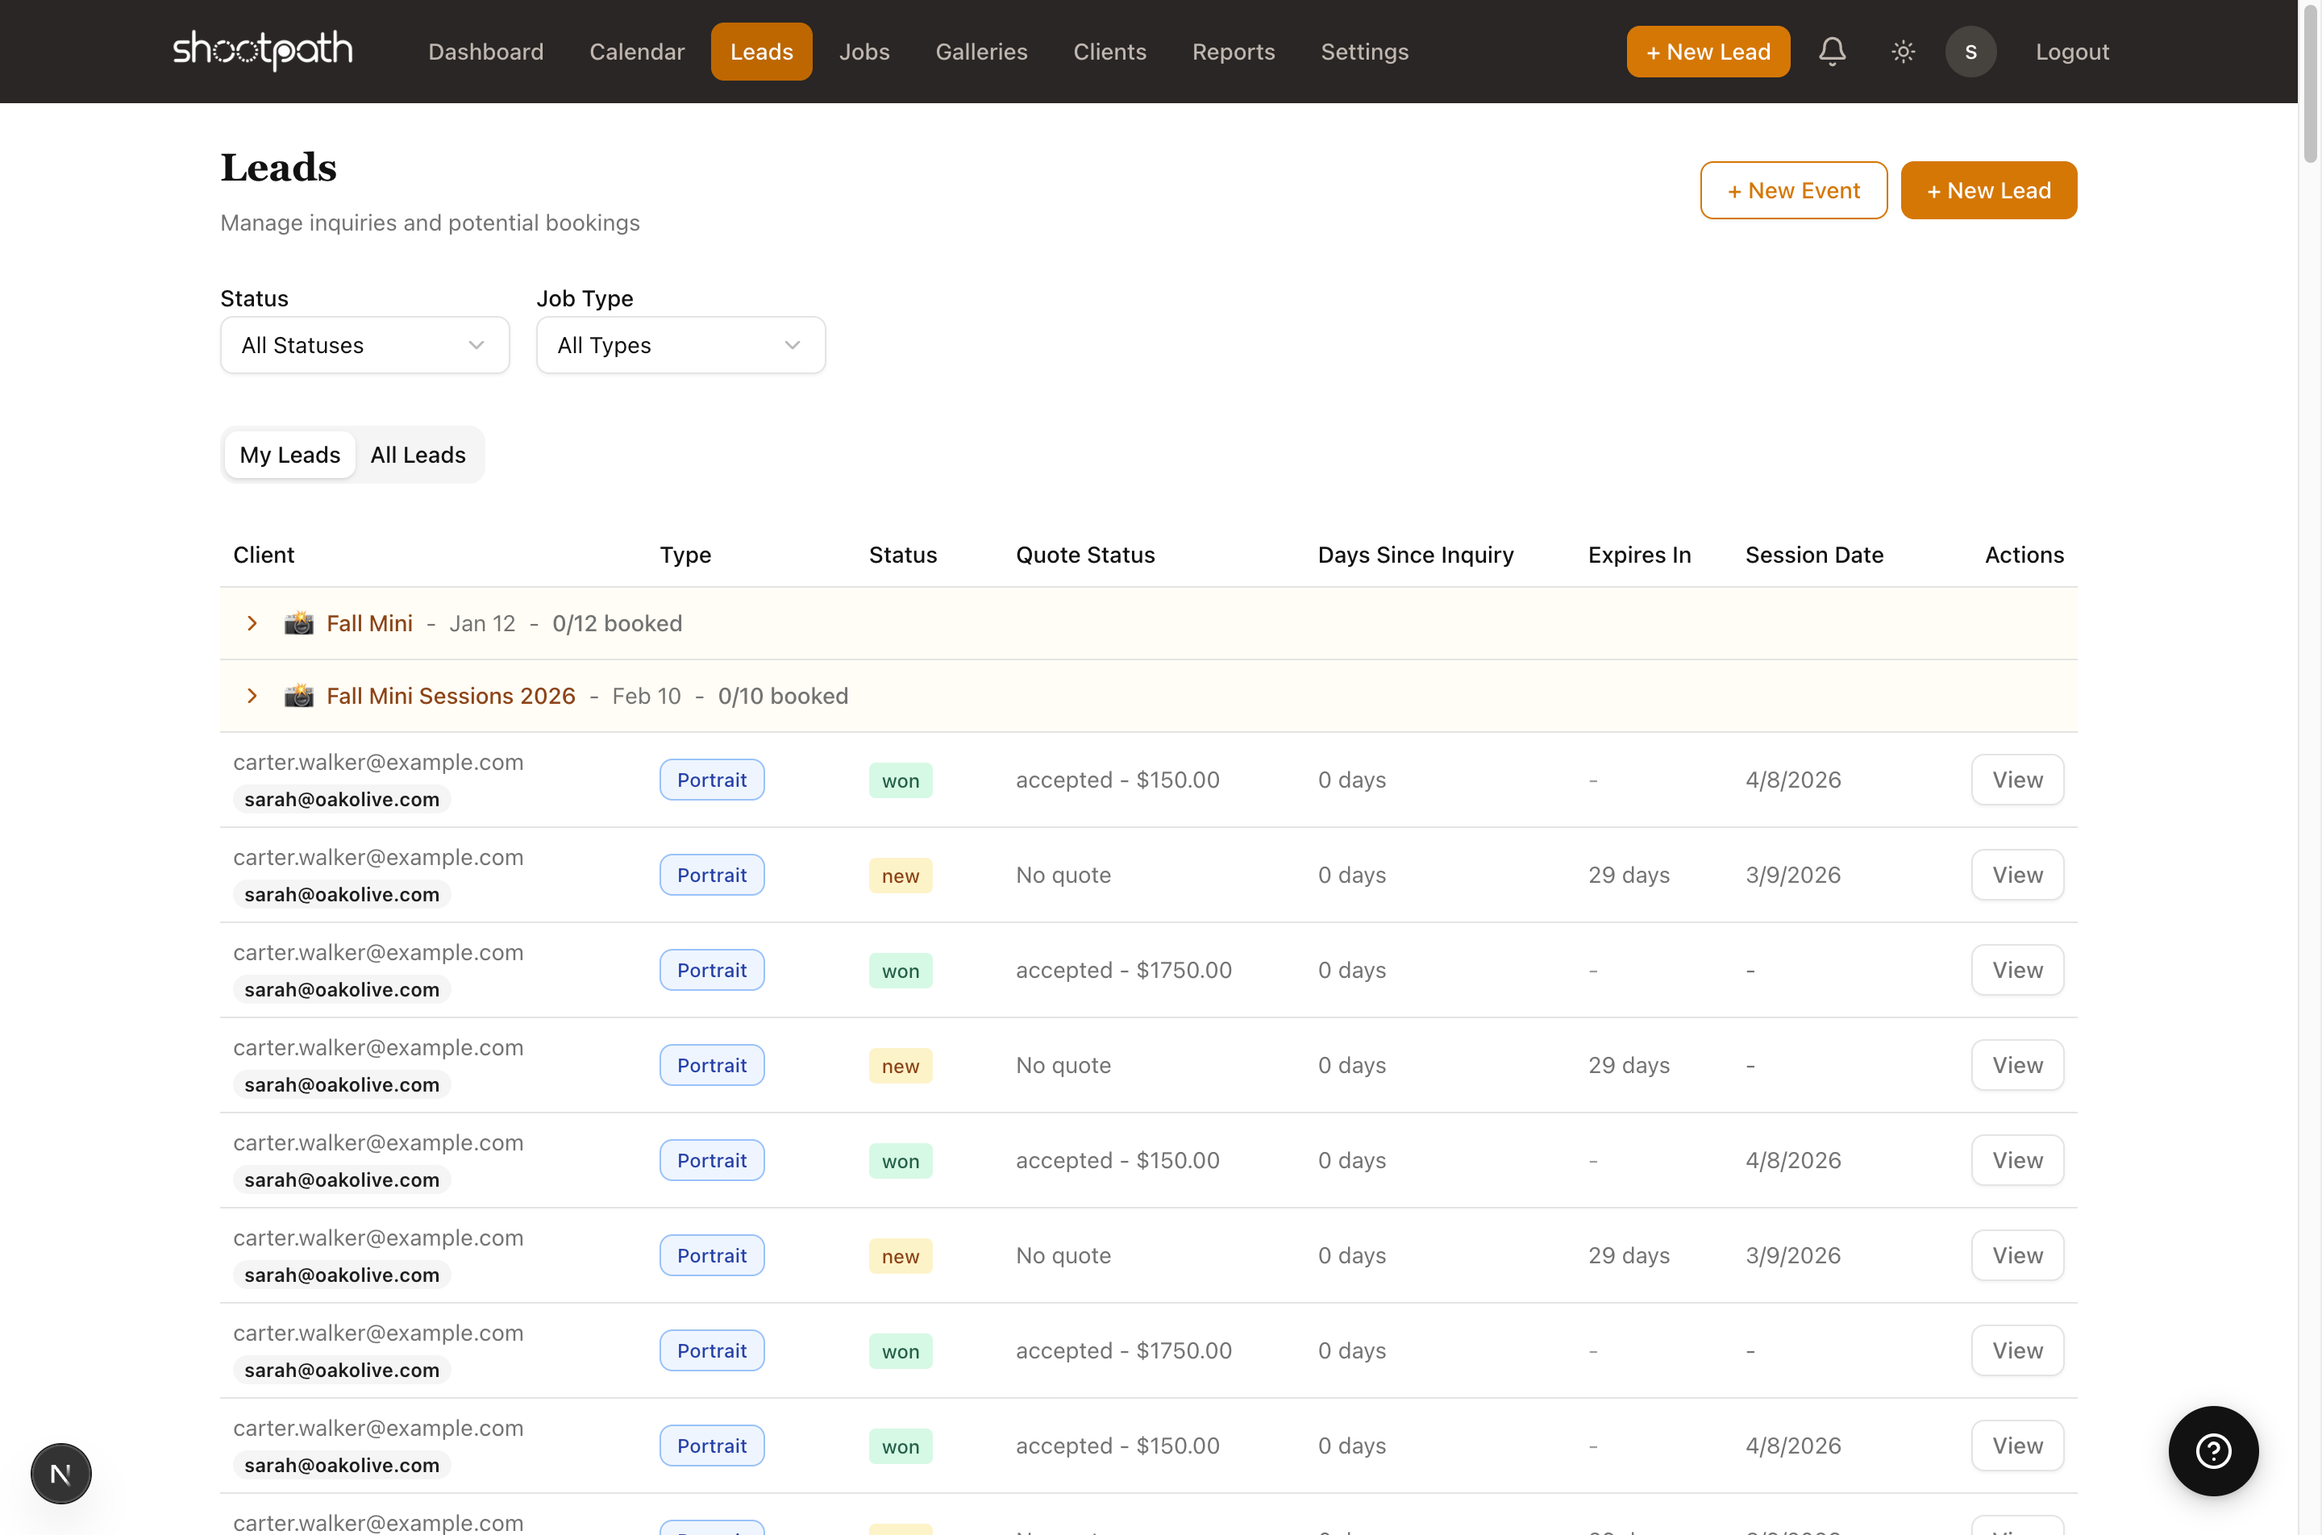
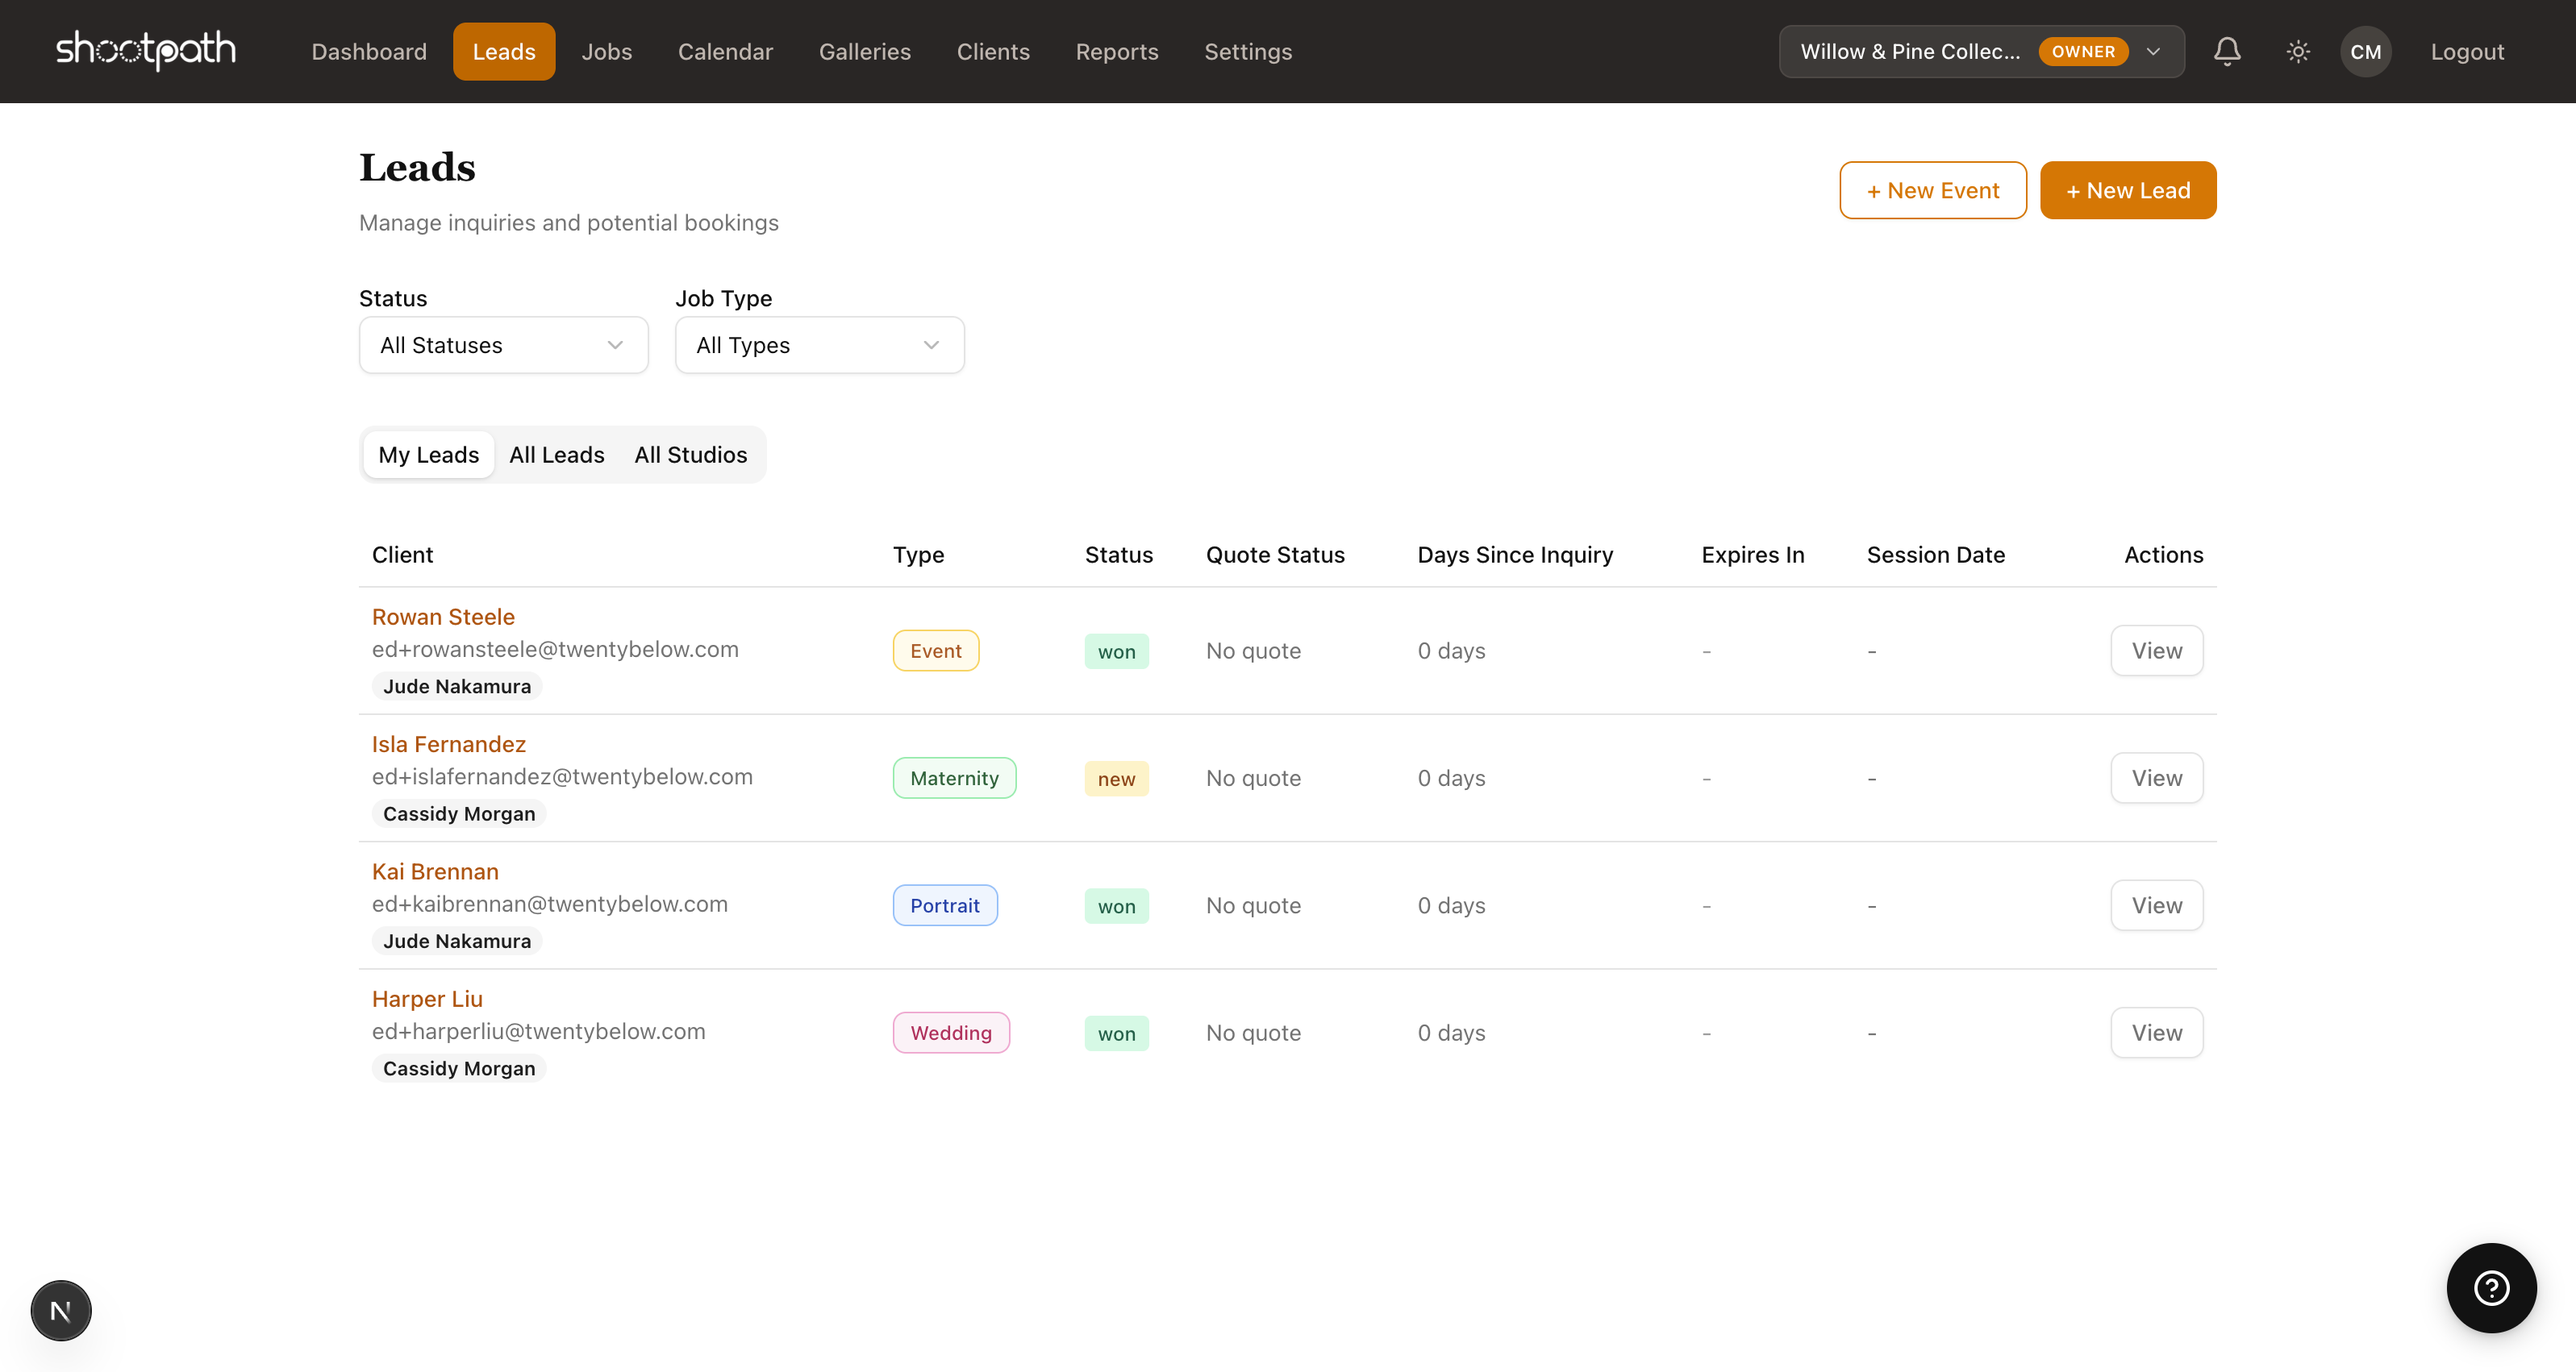
Add interface overview documentation with annotated screenshots
- Add interface-overview.md with comprehensive UI guide
- Update all 10 screenshots (5 clean + 5 annotated) with new navbar layout
- Use legend-style annotations (numbered bubbles + separate legend)
- Reflect new navbar: TenantSwitcher on right, Calendar moved to 4th position
- Modern Teal (#0891B2) annotation color with WCAG AAA compliance

diff --git a/docs/getting-started/interface-overview.md b/docs/getting-started/interface-overview.md
@@ -1,0 +1,86 @@
+# Interface Overview
+
+This guide introduces the main areas of the ShootPath interface to help you get started quickly.
+
+## Dashboard
+
+Your central hub for tracking business performance and upcoming work.
+
+![Dashboard Overview](/img/screenshots/interface/dashboard-annotated.png)
+
+**Key Areas:**
+
+1. **Main Navigation** — Switch between Dashboard, Leads, Jobs, Calendar, Galleries, Clients, Reports, and Settings. Full-width navbar for better visibility.
+2. **Quick Actions & Account** — Switch between studios (if you belong to multiple), check notifications, toggle dark/light theme, and access your account menu. The "+ New Lead" button is now in the dashboard page header.
+3. **Key Metrics** — Track new leads, upcoming shoots, active leads, and jobs in production at a glance.
+4. **Revenue Overview** — See your monthly and yearly revenue, average job value, and financial trends.
+5. **Sessions Calendar** — View confirmed sessions and jobs that need follow-up for scheduling.
+
+---
+
+## Leads
+
+Manage all client inquiries and send quotes.
+
+![Leads Overview](/img/screenshots/interface/leads-annotated.png)
+
+**Key Areas:**
+
+1. **Quick Actions** — Create new leads from inquiries or add events to your calendar.
+2. **Filter Leads** — Filter by status and job type to focus on specific inquiries.
+3. **Leads Overview** — View all inquiries with client info, job type, status, quote details, and session dates.
+4. **Lead Actions** — Send quotes, follow up, or convert accepted quotes into jobs.
+
+---
+
+## Jobs
+
+Track all booked sessions through your workflow.
+
+![Jobs Overview](/img/screenshots/interface/jobs-annotated.png)
+
+**Key Areas:**
+
+1. **Search & Filter** — Search jobs by name or filter by active, completed, or payment status.
+2. **Jobs List** — All booked jobs with job number, date, client, type, status, and workflow progress.
+3. **Workflow Progress** — Track where each job is in your workflow: last completed step and next step needed.
+4. **Quick Actions** — View job details, contracts, invoices, or photo galleries.
+
+---
+
+## Calendar
+
+Schedule and view all your photography sessions.
+
+![Calendar Overview](/img/screenshots/interface/calendar-annotated.png)
+
+**Key Areas:**
+
+1. **Month Navigation** — Navigate between months to view your schedule. Today is highlighted.
+2. **View Options** — Switch between Month, Week, and Day views.
+3. **Job Type Filters** — Filter calendar by job type to focus on specific sessions.
+4. **Calendar Grid** — View all scheduled sessions by date. Click dates to schedule.
+5. **Session Events** — Click events to view details or make changes.
+
+---
+
+## Settings
+
+Configure your business details, branding, and integrations.
+
+![Settings Overview](/img/screenshots/interface/settings-annotated.png)
+
+**Key Areas:**
+
+1. **Settings Categories** — Navigate between different settings sections using these tabs.
+2. **Business Settings** — Configure your business name, logo, contact information, and branding.
+3. **Settings Cards** — Each card represents a configurable aspect of your business. Click to edit.
+4. **Quick Edit** — Click any card to edit settings. Changes save automatically.
+
+---
+
+## Next Steps
+
+- [Create your first lead](/docs/leads/creating-leads)
+- [Set up your workflow](/docs/workflows/overview)
+- [Configure business settings](/docs/settings/business-info)
